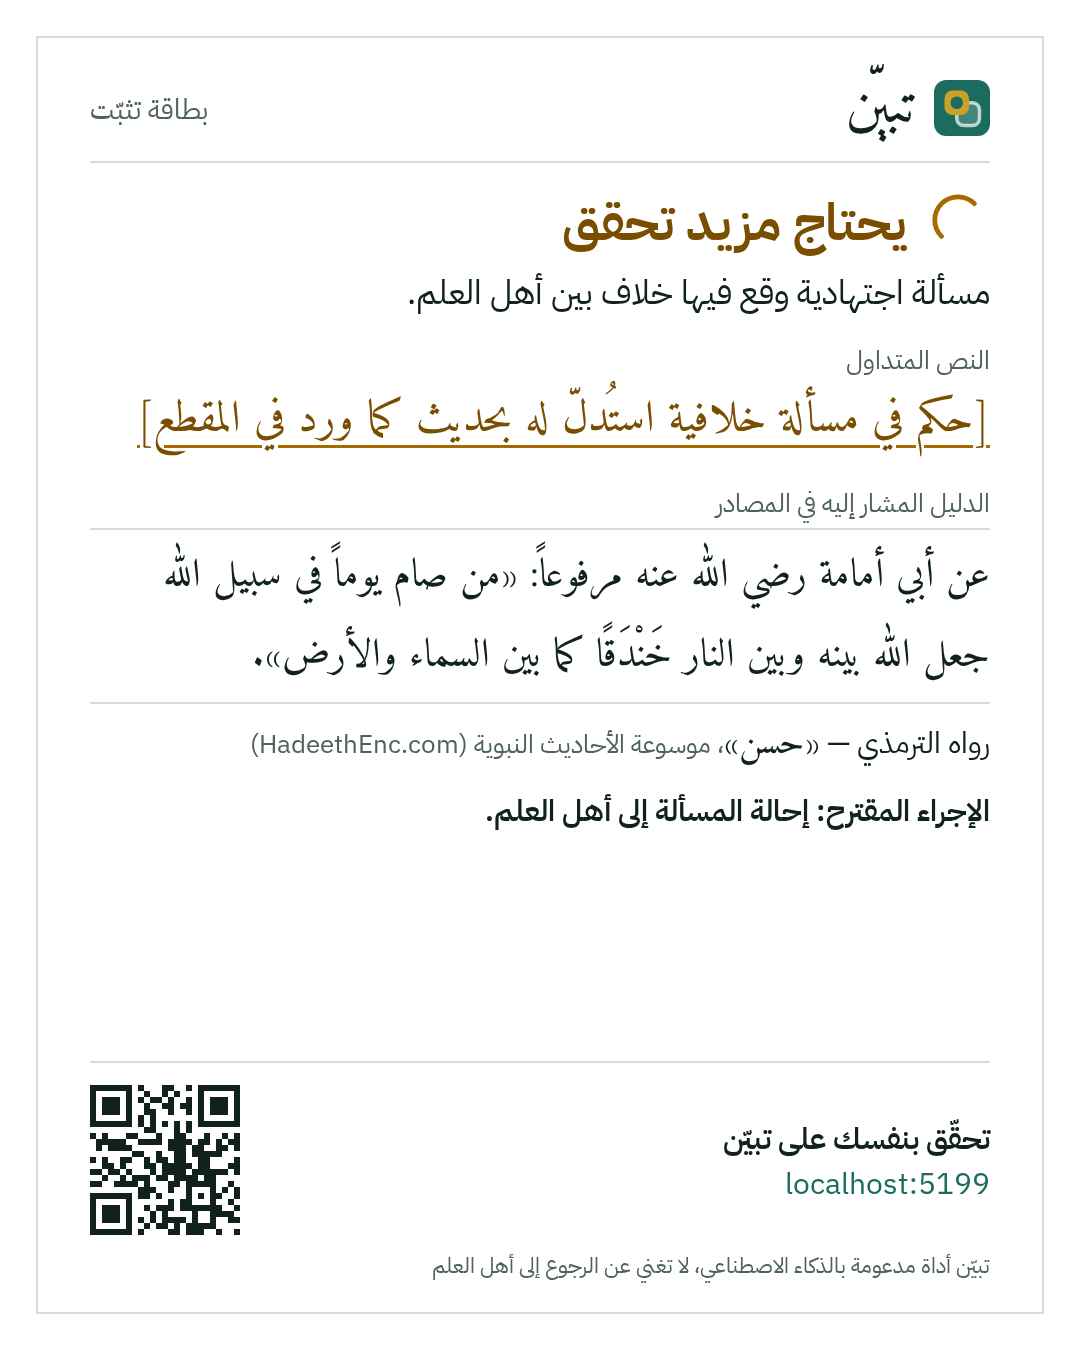
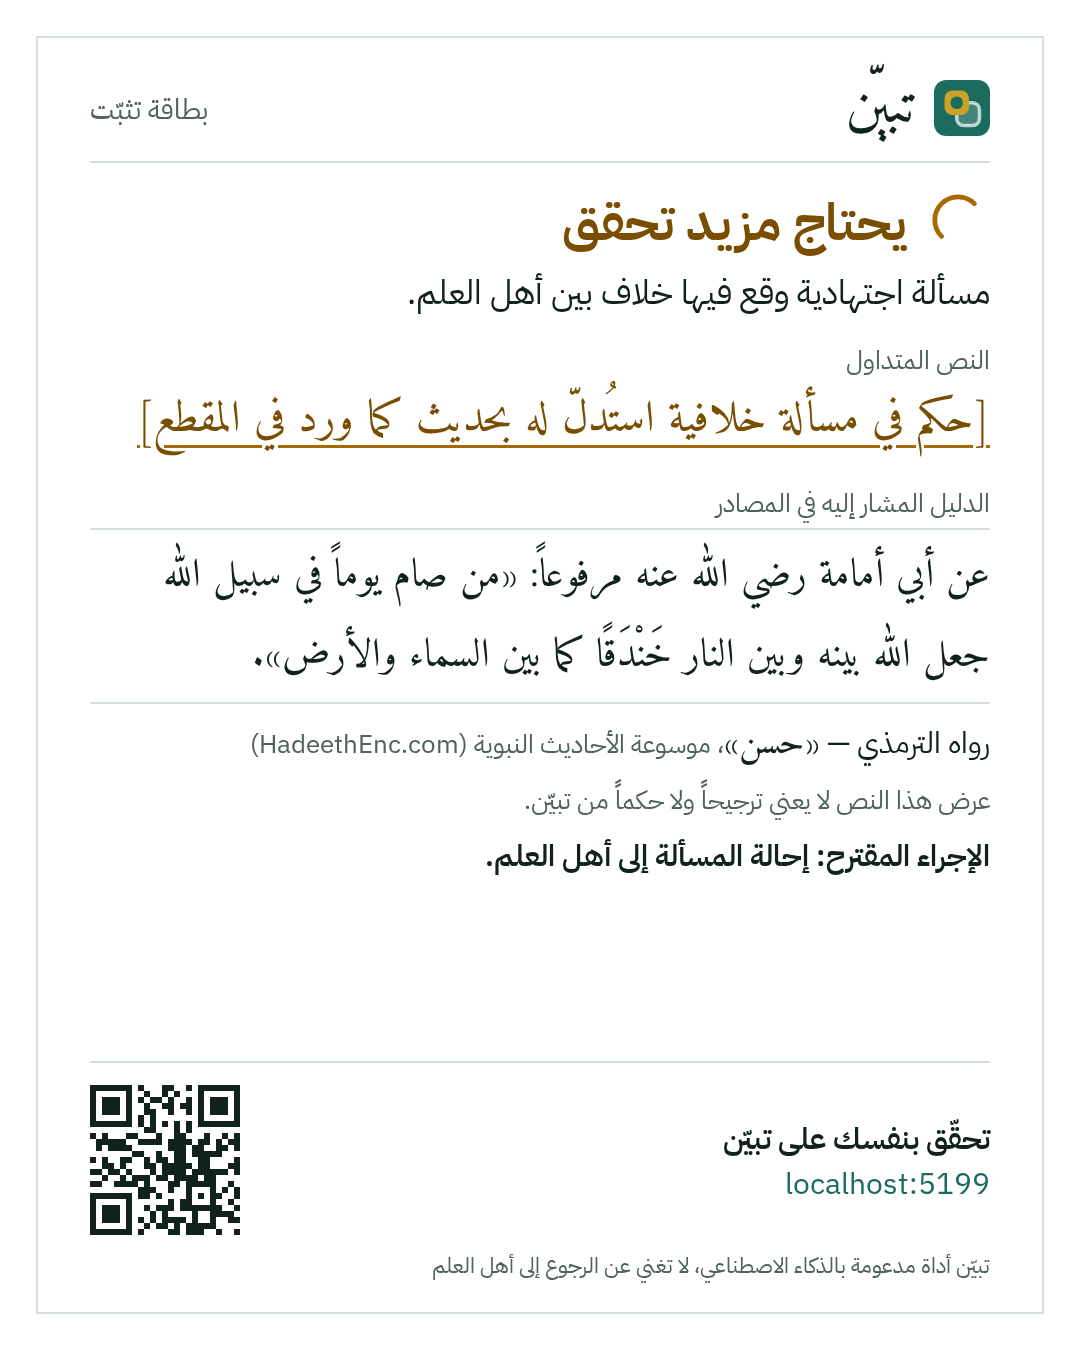
feat(F3): the caveat travels with a referenced claim's card and text
A disputed ruling beside a narration, with no caveat, reads as an argument for one opinion. On
the verdict card of a match_kind 'referenced' claim one quiet line stands under the takhrij:
«عرض هذا النص لا يعني ترجيحاً ولا حكماً من تبيّن.» It takes part in fitting like any other
block (the source's text gives way first). The shared text carries the same sentence after
the «الدليل المشار إليه:» line, and keeps it under X's limit for as long as that line is there.

Claude-Session: https://claude.ai/code/session_01WkLzYHrQZVwHgWeRF86dxo

Changed region(s): [[0.4583, 0.5911, 0.9167, 0.6533]]

diff --git a/frontend/src/components/share/verdict-card.tsx b/frontend/src/components/share/verdict-card.tsx
@@ -535,6 +535,12 @@ export function ClaimCardImage({ card, verse, ...shell }: ClaimCardImageProps) {
               </span>
             )}
           </div>
+          {card.match_kind === 'referenced' ? (
+            // The caveat travels with the image: the text is what the claim points at, no more.
+            <div data-caveat="" style={{ flex: 'none', marginTop: whole(6 * k), fontSize: whole(26 * k), lineHeight: 1.5, color: palette.quiet }}>
+              {t.card.referencedCaveat}
+            </div>
+          ) : null}
         </>
       ) : state === 'not_found' ? (
         // Nothing to quote: the tool abstains, and says so in a verse's words.

diff --git a/frontend/src/lib/dictionary.ar.ts b/frontend/src/lib/dictionary.ar.ts
@@ -340,6 +340,9 @@ export const ar = {
     // not something it quotes, and showing it raises no state.
     referencedSource: 'الدليل المشار إليه في المصادر',
     referencedShort: 'الدليل المشار إليه',
+    // Travels with the verdict card and the shared text of such a claim: a disputed ruling beside
+    // a narration, with no caveat, would read as an argument for one opinion.
+    referencedCaveat: 'عرض هذا النص لا يعني ترجيحاً ولا حكماً من تبيّن.',
     reference: 'المرجع',
     grade: 'الحكم',
     grades: 'الحكم على الحديث',

diff --git a/frontend/src/lib/share-text.ts b/frontend/src/lib/share-text.ts
@@ -49,6 +49,8 @@ function lines(subject: ShareSubject, t: Dictionary, shape: Shape): string[] {
     return [
       `${t.states[card.state]}: «${truncateClaim(card.text_as_quoted, shape.quoted)}»`,
       ...(reference ? [reference] : []),
+      // The caveat goes wherever the evidence referred to goes.
+      ...(reference && card.match_kind === 'referenced' ? [t.card.referencedCaveat] : []),
       ...(shape.action ? [t.actionSentences[card.action]] : []),
     ]
   }

diff --git a/frontend/src/lib/dictionary.en.ts b/frontend/src/lib/dictionary.en.ts
@@ -263,6 +263,7 @@ export const en: Dictionary = {
     inSource: 'In the source',
     referencedSource: 'The evidence referred to, in the sources',
     referencedShort: 'Evidence referred to',
+    referencedCaveat: 'Showing this text is neither a preference nor a ruling by Tabayyun.',
     reference: 'Reference',
     grade: 'Grading',
     grades: 'Hadith grading',
